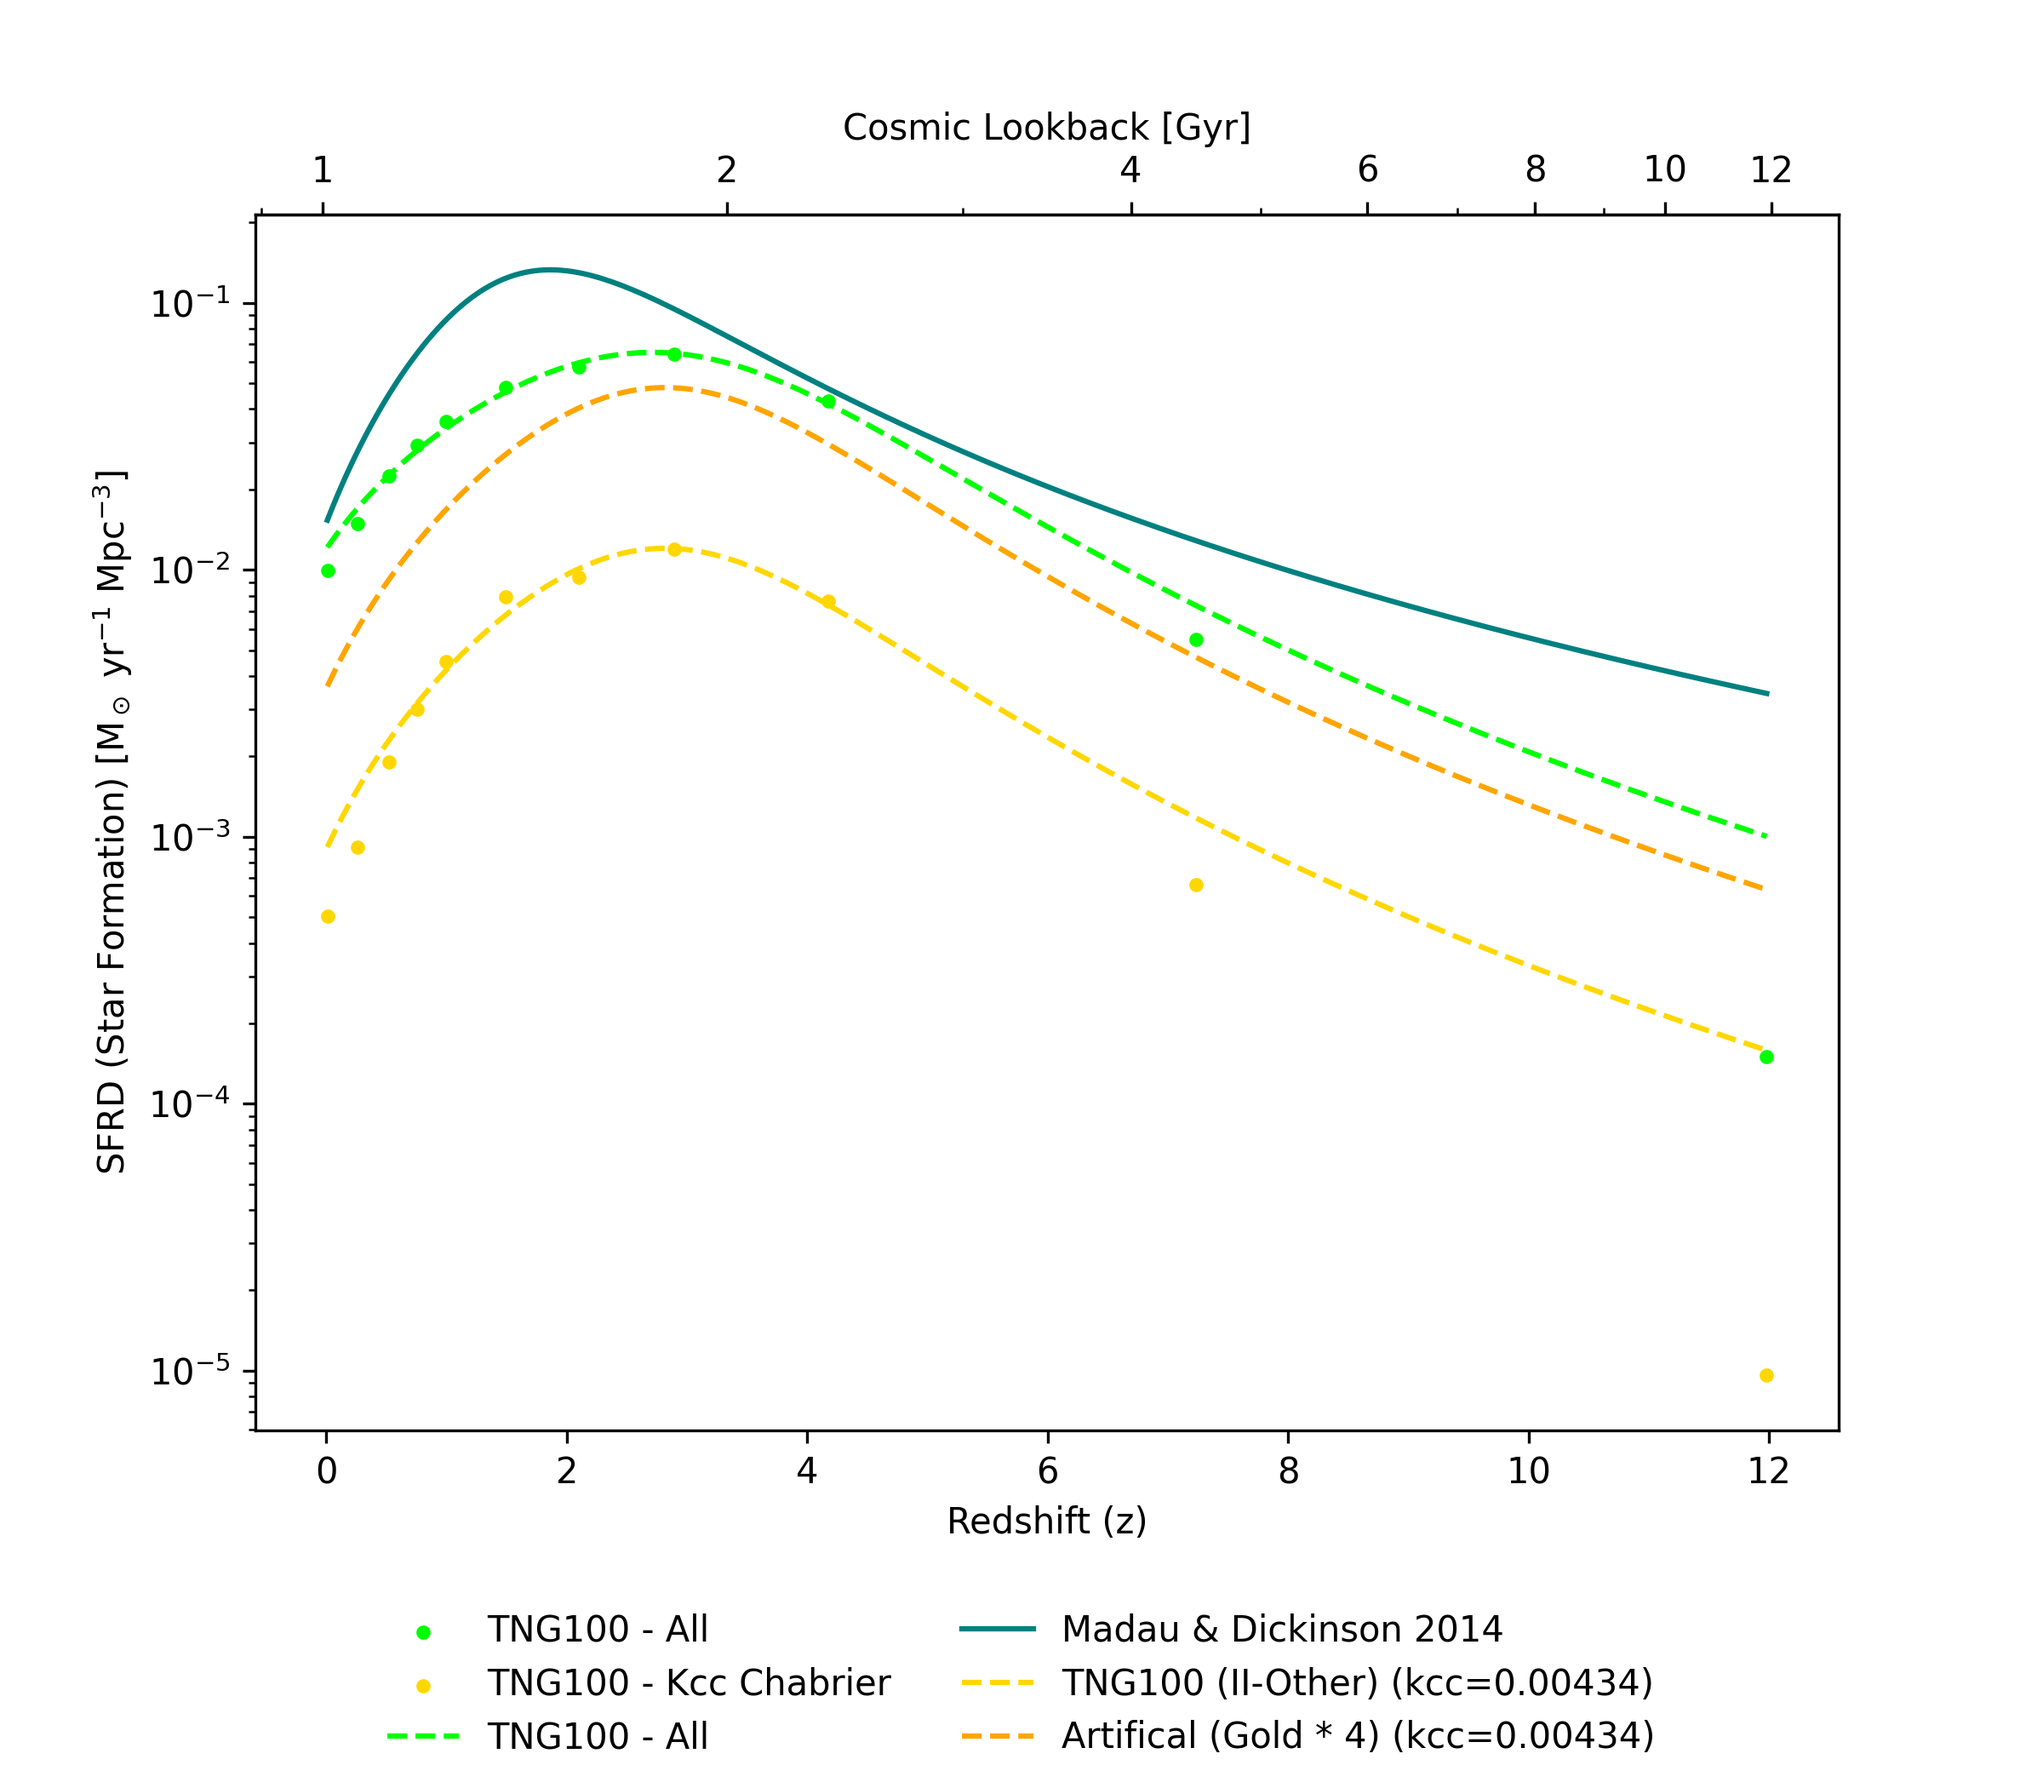
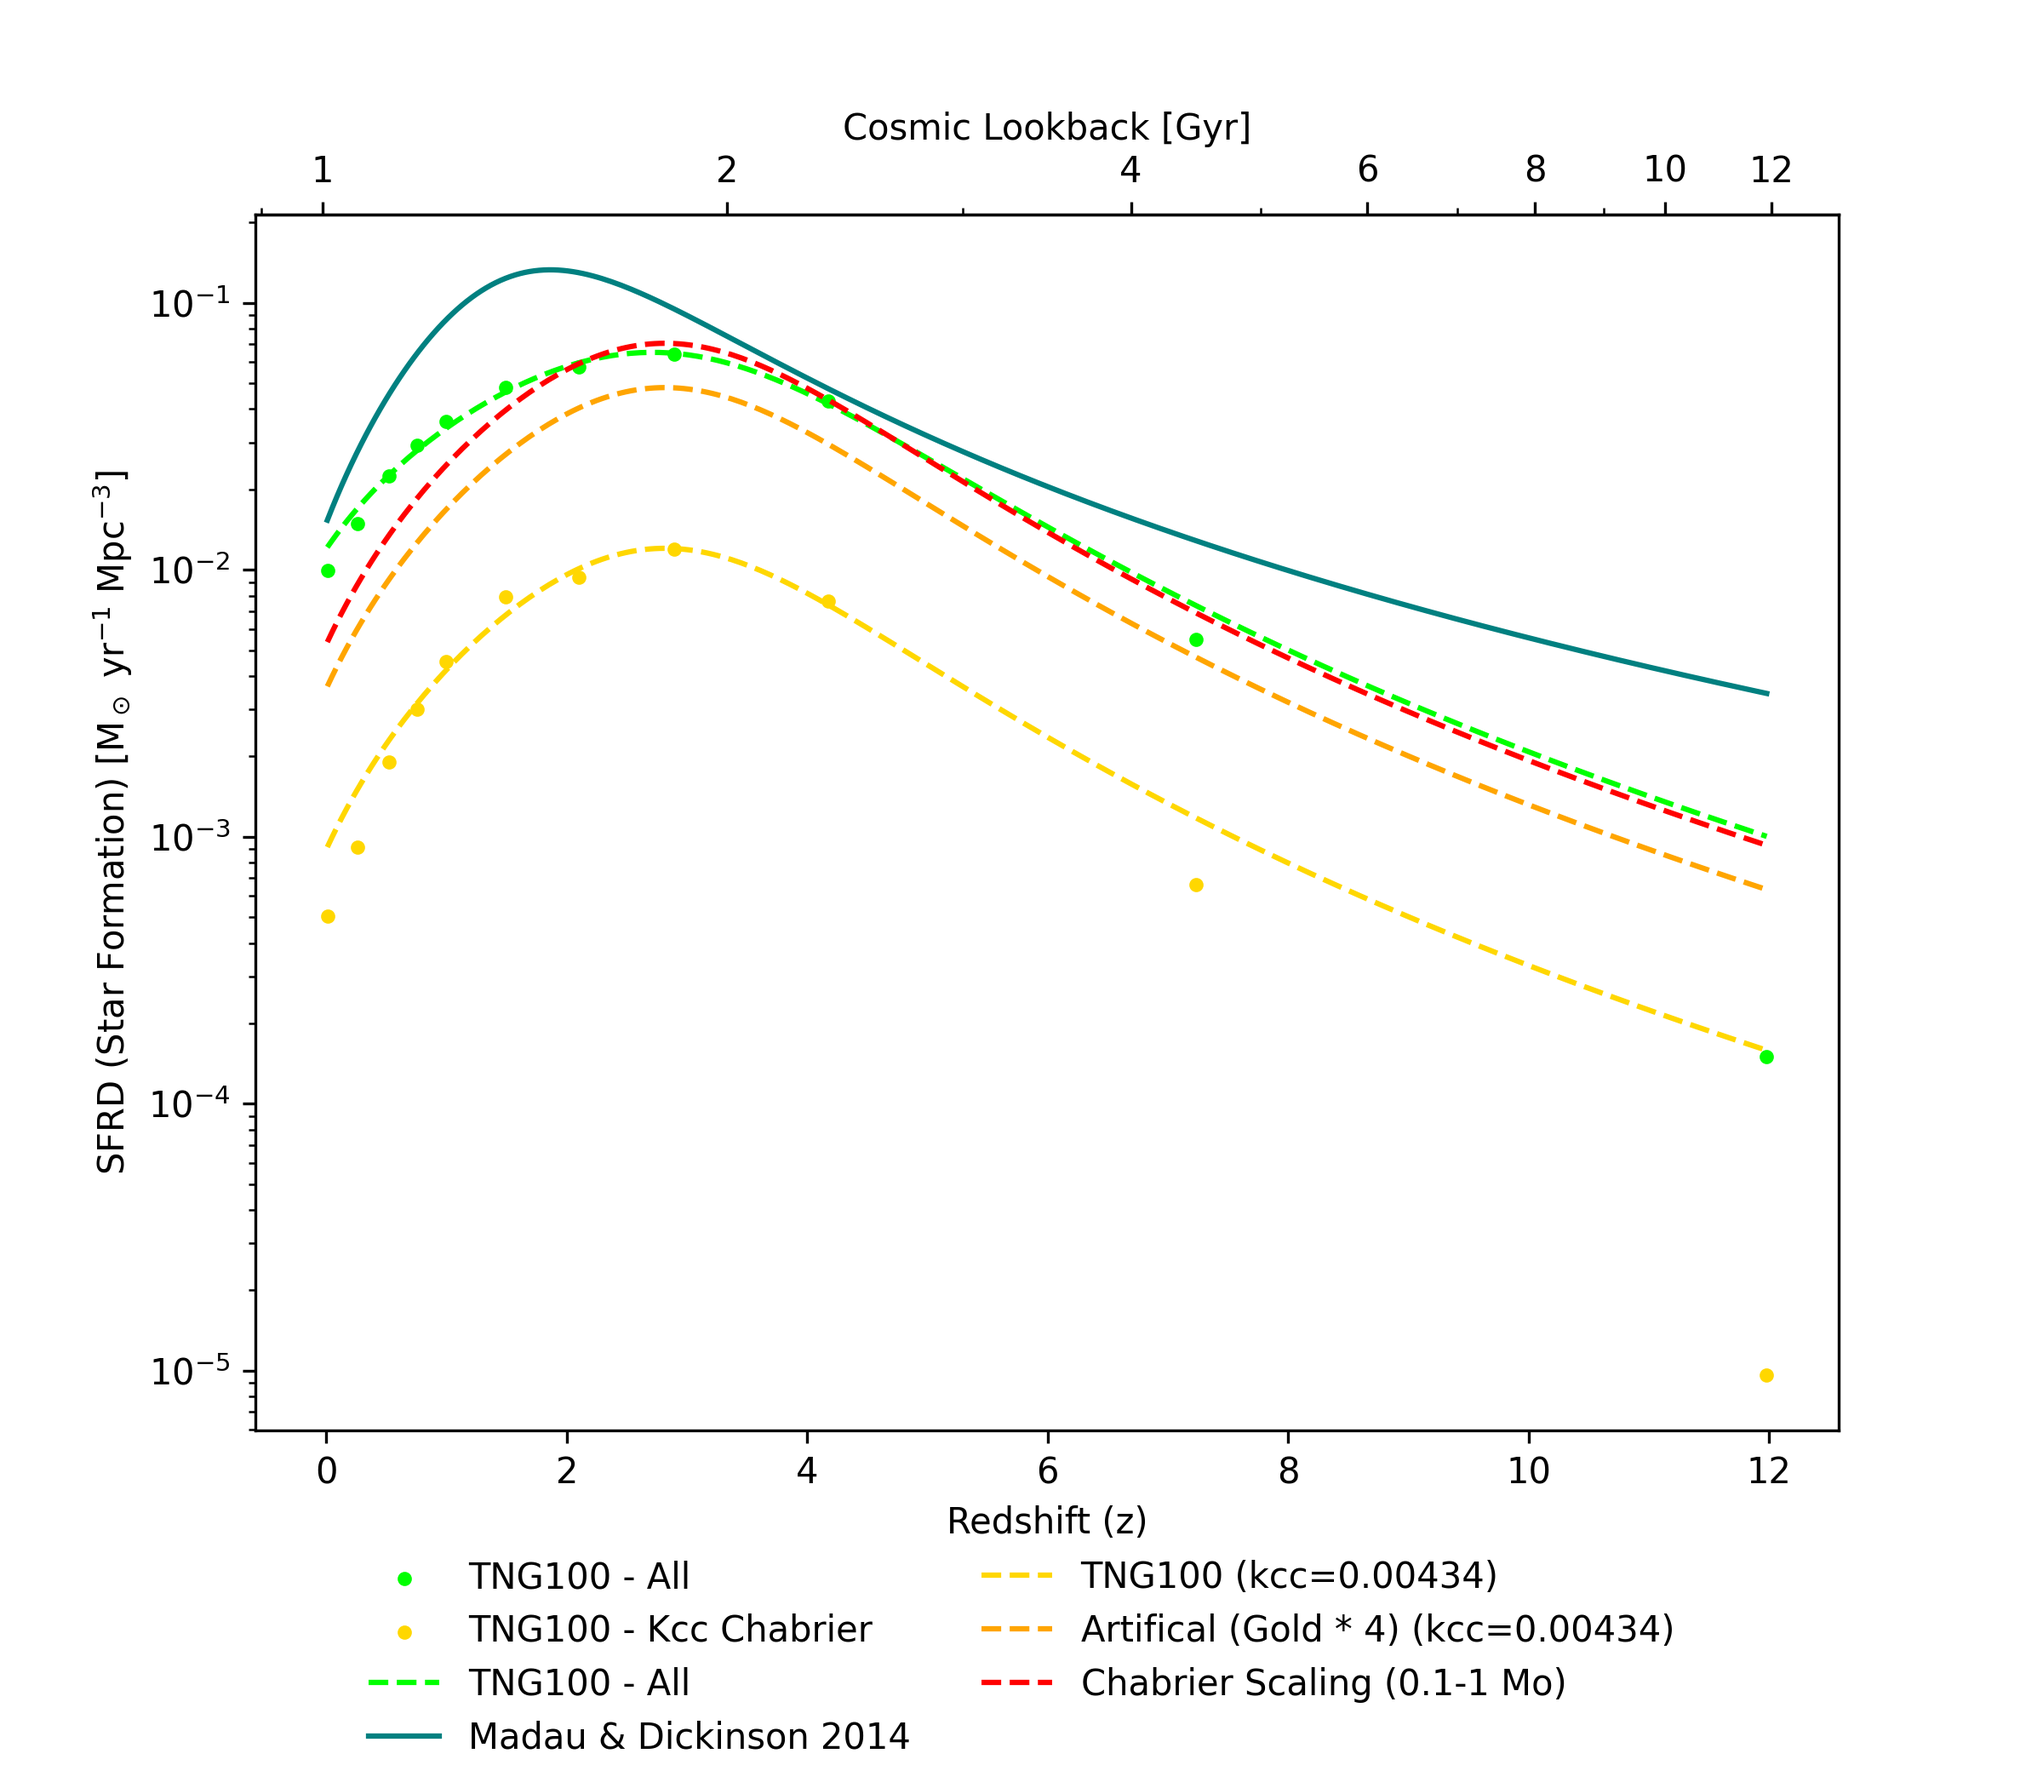
added chab scaling to sfr plot

Changed region(s): [[0.4688, 0.8667, 0.8125, 0.9905], [0.1875, 0.8667, 0.4375, 0.9905]]

diff --git a/tng.py b/tng.py
@@ -445,7 +445,8 @@ def supernova_efficiency(_imf, sn_type=20):
     return numerator/denominator
 
 def imf_scaling(_imf):
-    return integrate.quad(_imf, 0.1, 1)
+    integral, _ = integrate.quad(_imf, 0.1, 1)
+    return integral
 
 # region Plot Cosmic Level
 def cosmic_level(snaps, kcc_type):
@@ -501,14 +502,16 @@ def cosmic_level(snaps, kcc_type):
     csnrh_chabrier = csfrh * kcc_chabrier
     csnrh_chabrier_sys = csfrh * kcc_chabrier_sys
 
-    # imf scaling 
-
     # trace sfrd using snrd 
     # use new units snrd in yr-1 Mpc-3 and divide by kcc (Mo-1) gets Mo yr-1 Mpc-3 (SFRD)
     csfrh_kcc_chabrier = md14_snrd_scaled / kcc_chabrier
     csfrh_kcc_chabrier_raw = rev_snrd_1000_scaled / kcc_chabrier
 
     artificial = 4 * md14_snrd_scaled / kcc_chabrier
+
+    chab_scale = imf_scaling(imf.chabrier)
+    csfrh_bpass_scale = csfrh_kcc_chabrier / chab_scale
+
     
     # CSNRH plot
     fig_csnrh, ax_csnrh1, ax_csnrh2 = plt_cosmo(rev_redshifts, r'SNRD (Supernova) [$\mathrm{yr^{-1}\ M_\odot^{-1}\ Mpc^{-3}}$]', r'SNRD (Supernova) [$\mathrm{yr^{-1}\ Mpc^{-3}}$]', space=0.2)
@@ -531,8 +534,9 @@ def cosmic_level(snaps, kcc_type):
     # lines
     ls_csfrh2, = ax_csfrd.plot(redshift_linespace, md14_sfrd_all, linestyle='--', color='lime', label="TNG100 - All")
     ls_csfrh3, = ax_csfrd.plot(redshift_linespace, csfrh, linestyle='-', color='teal', label="Madau & Dickinson 2014")
-    ls_csfrh4, = ax_csfrd.plot(redshift_linespace, csfrh_kcc_chabrier, linestyle='--', color='gold', label=f"TNG100 (II-Other) (kcc={kcc_chabrier:.3})")
+    ls_csfrh4, = ax_csfrd.plot(redshift_linespace, csfrh_kcc_chabrier, linestyle='--', color='gold', label=f"TNG100 (kcc={kcc_chabrier:.3})")
     ls_csfrh5, = ax_csfrd.plot(redshift_linespace, artificial, linestyle='--', color='orange', label=f"Artifical (Gold * 4) (kcc={kcc_chabrier:.3})")
+    ls_csfrh5, = ax_csfrd.plot(redshift_linespace, csfrh_bpass_scale, linestyle='--', color='red', label=f"Chabrier Scaling (0.1-1 Mo)")
     #ls_csfrh3, = ax_csfrd.plot(redshift_linespace, csfrh_kcc_chabrier_noscale, linestyle='--', color='gold', label="TNG100 - Kcc Chabrier no scale)")
 
     plt_labels_multiple(fig_csnrh, [ax_csnrh1, ax_csnrh2], 2)
